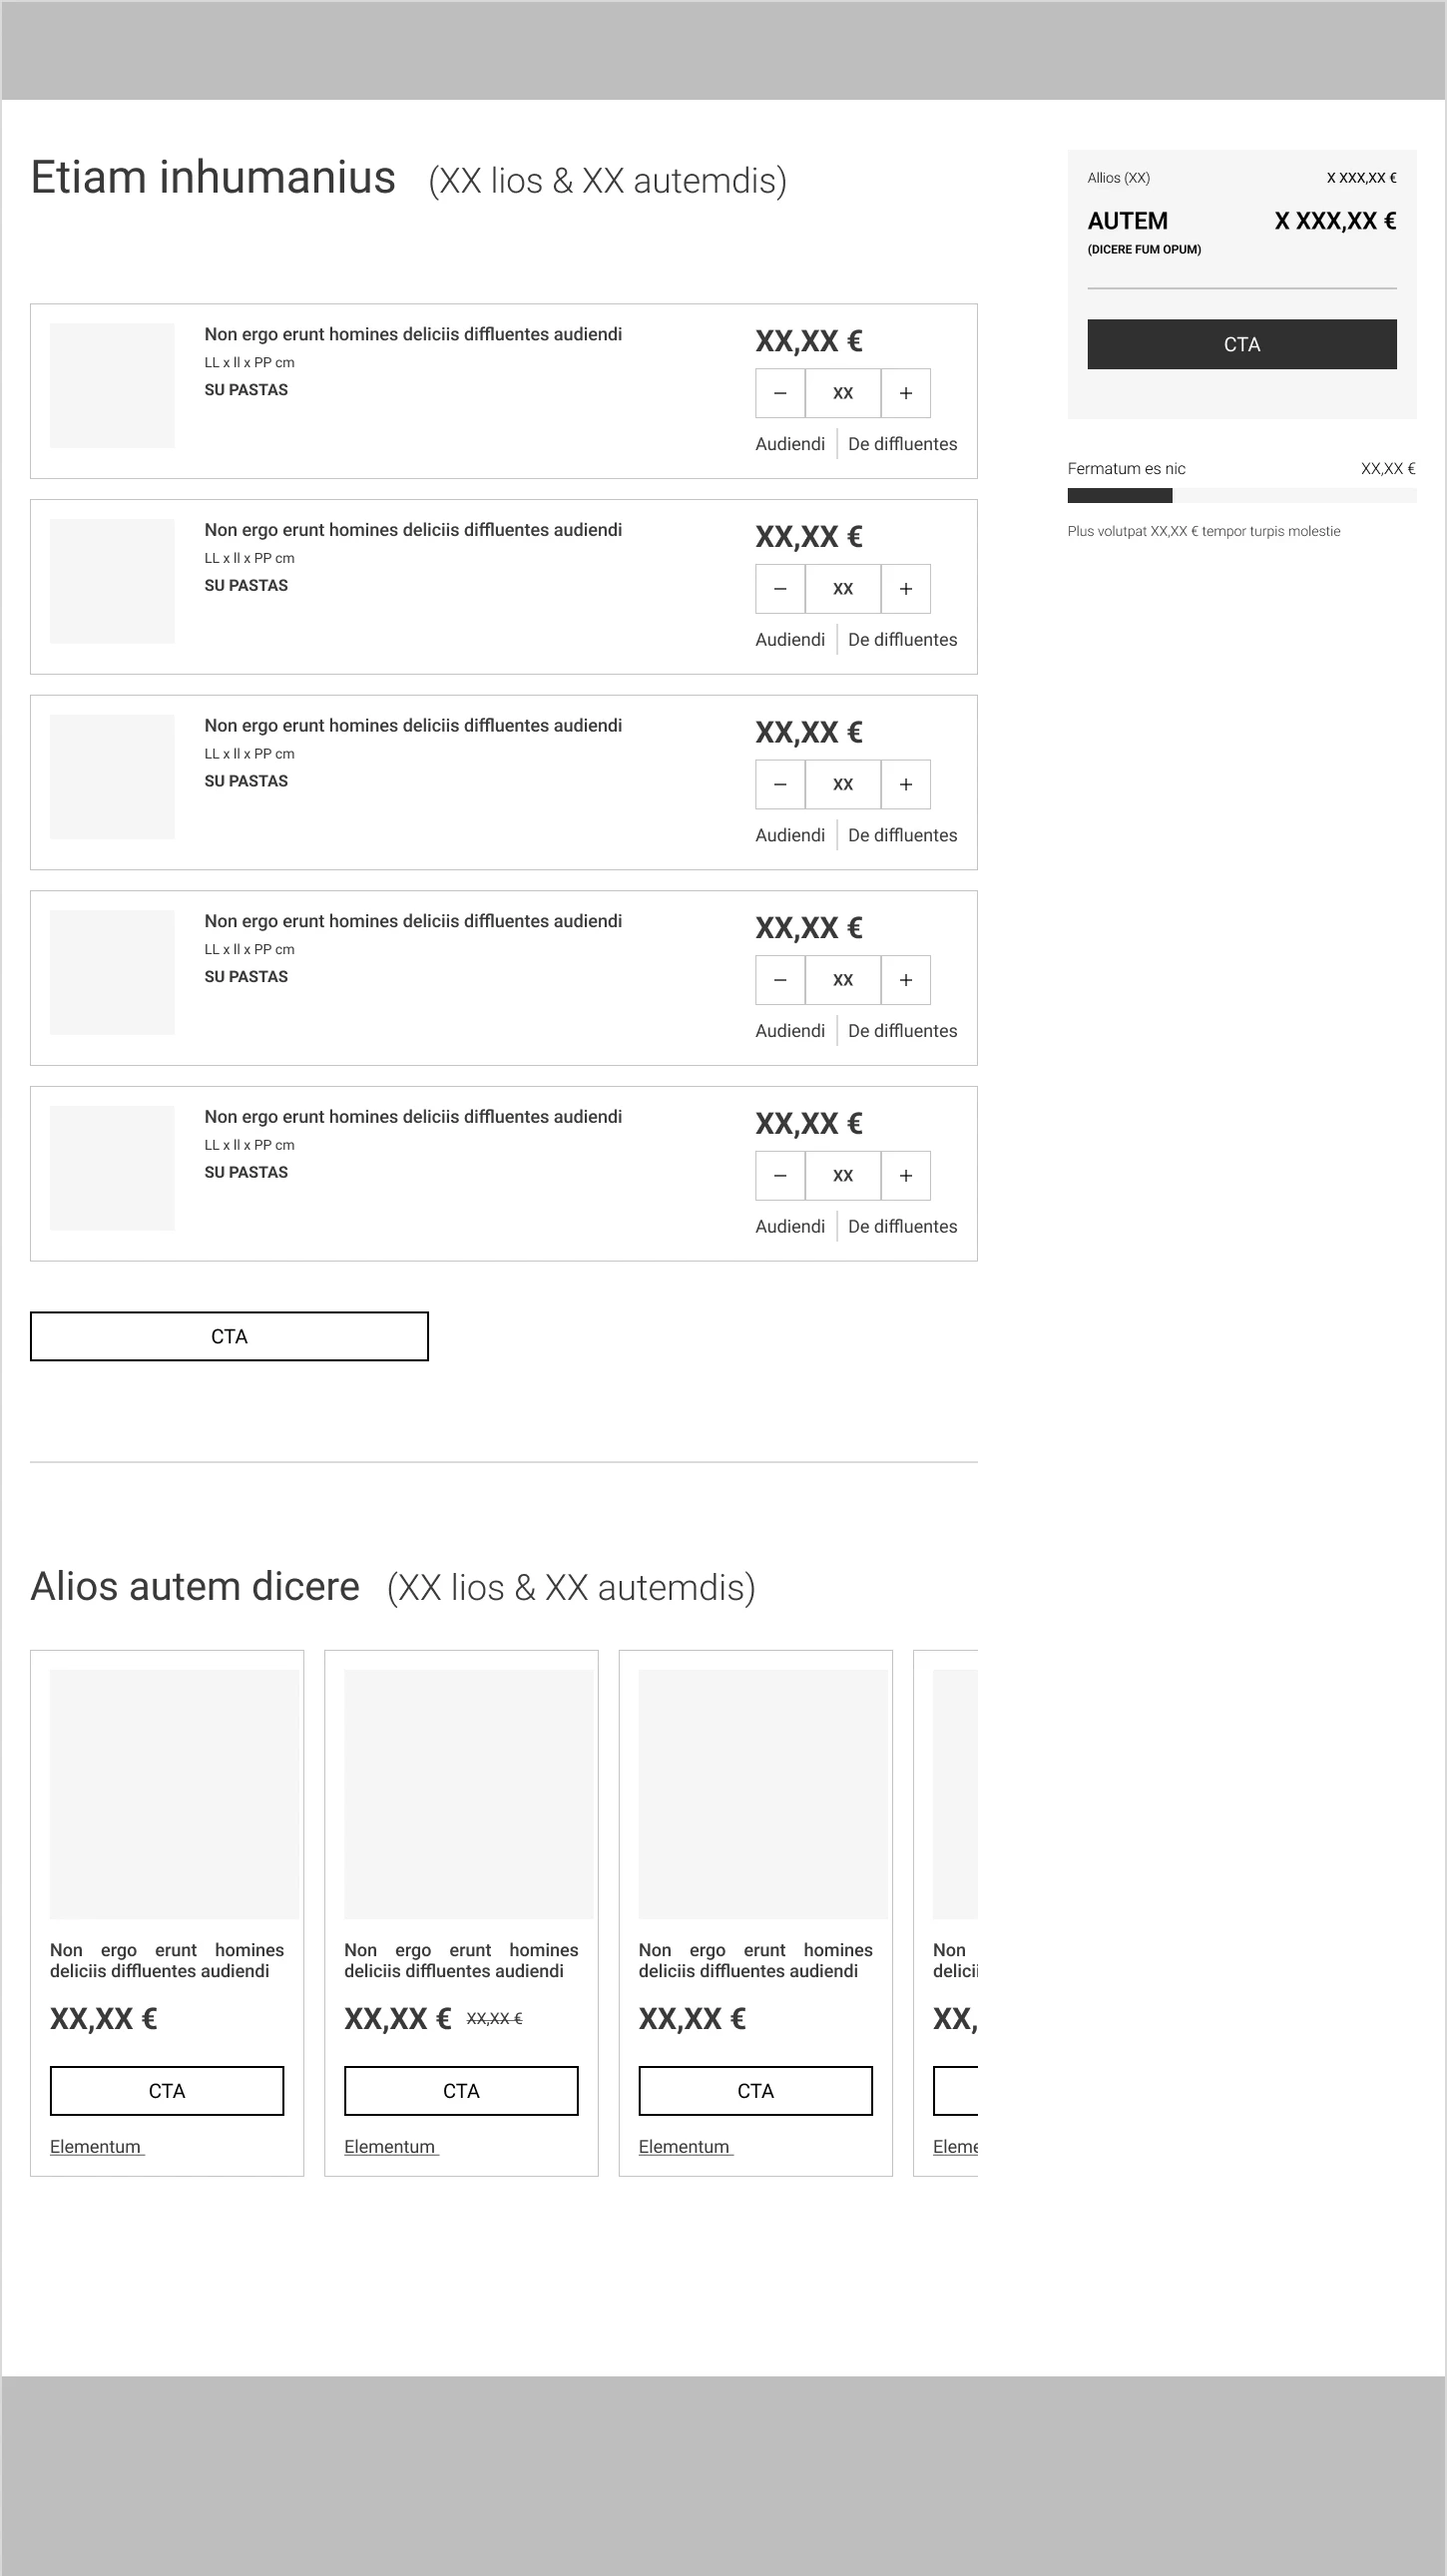
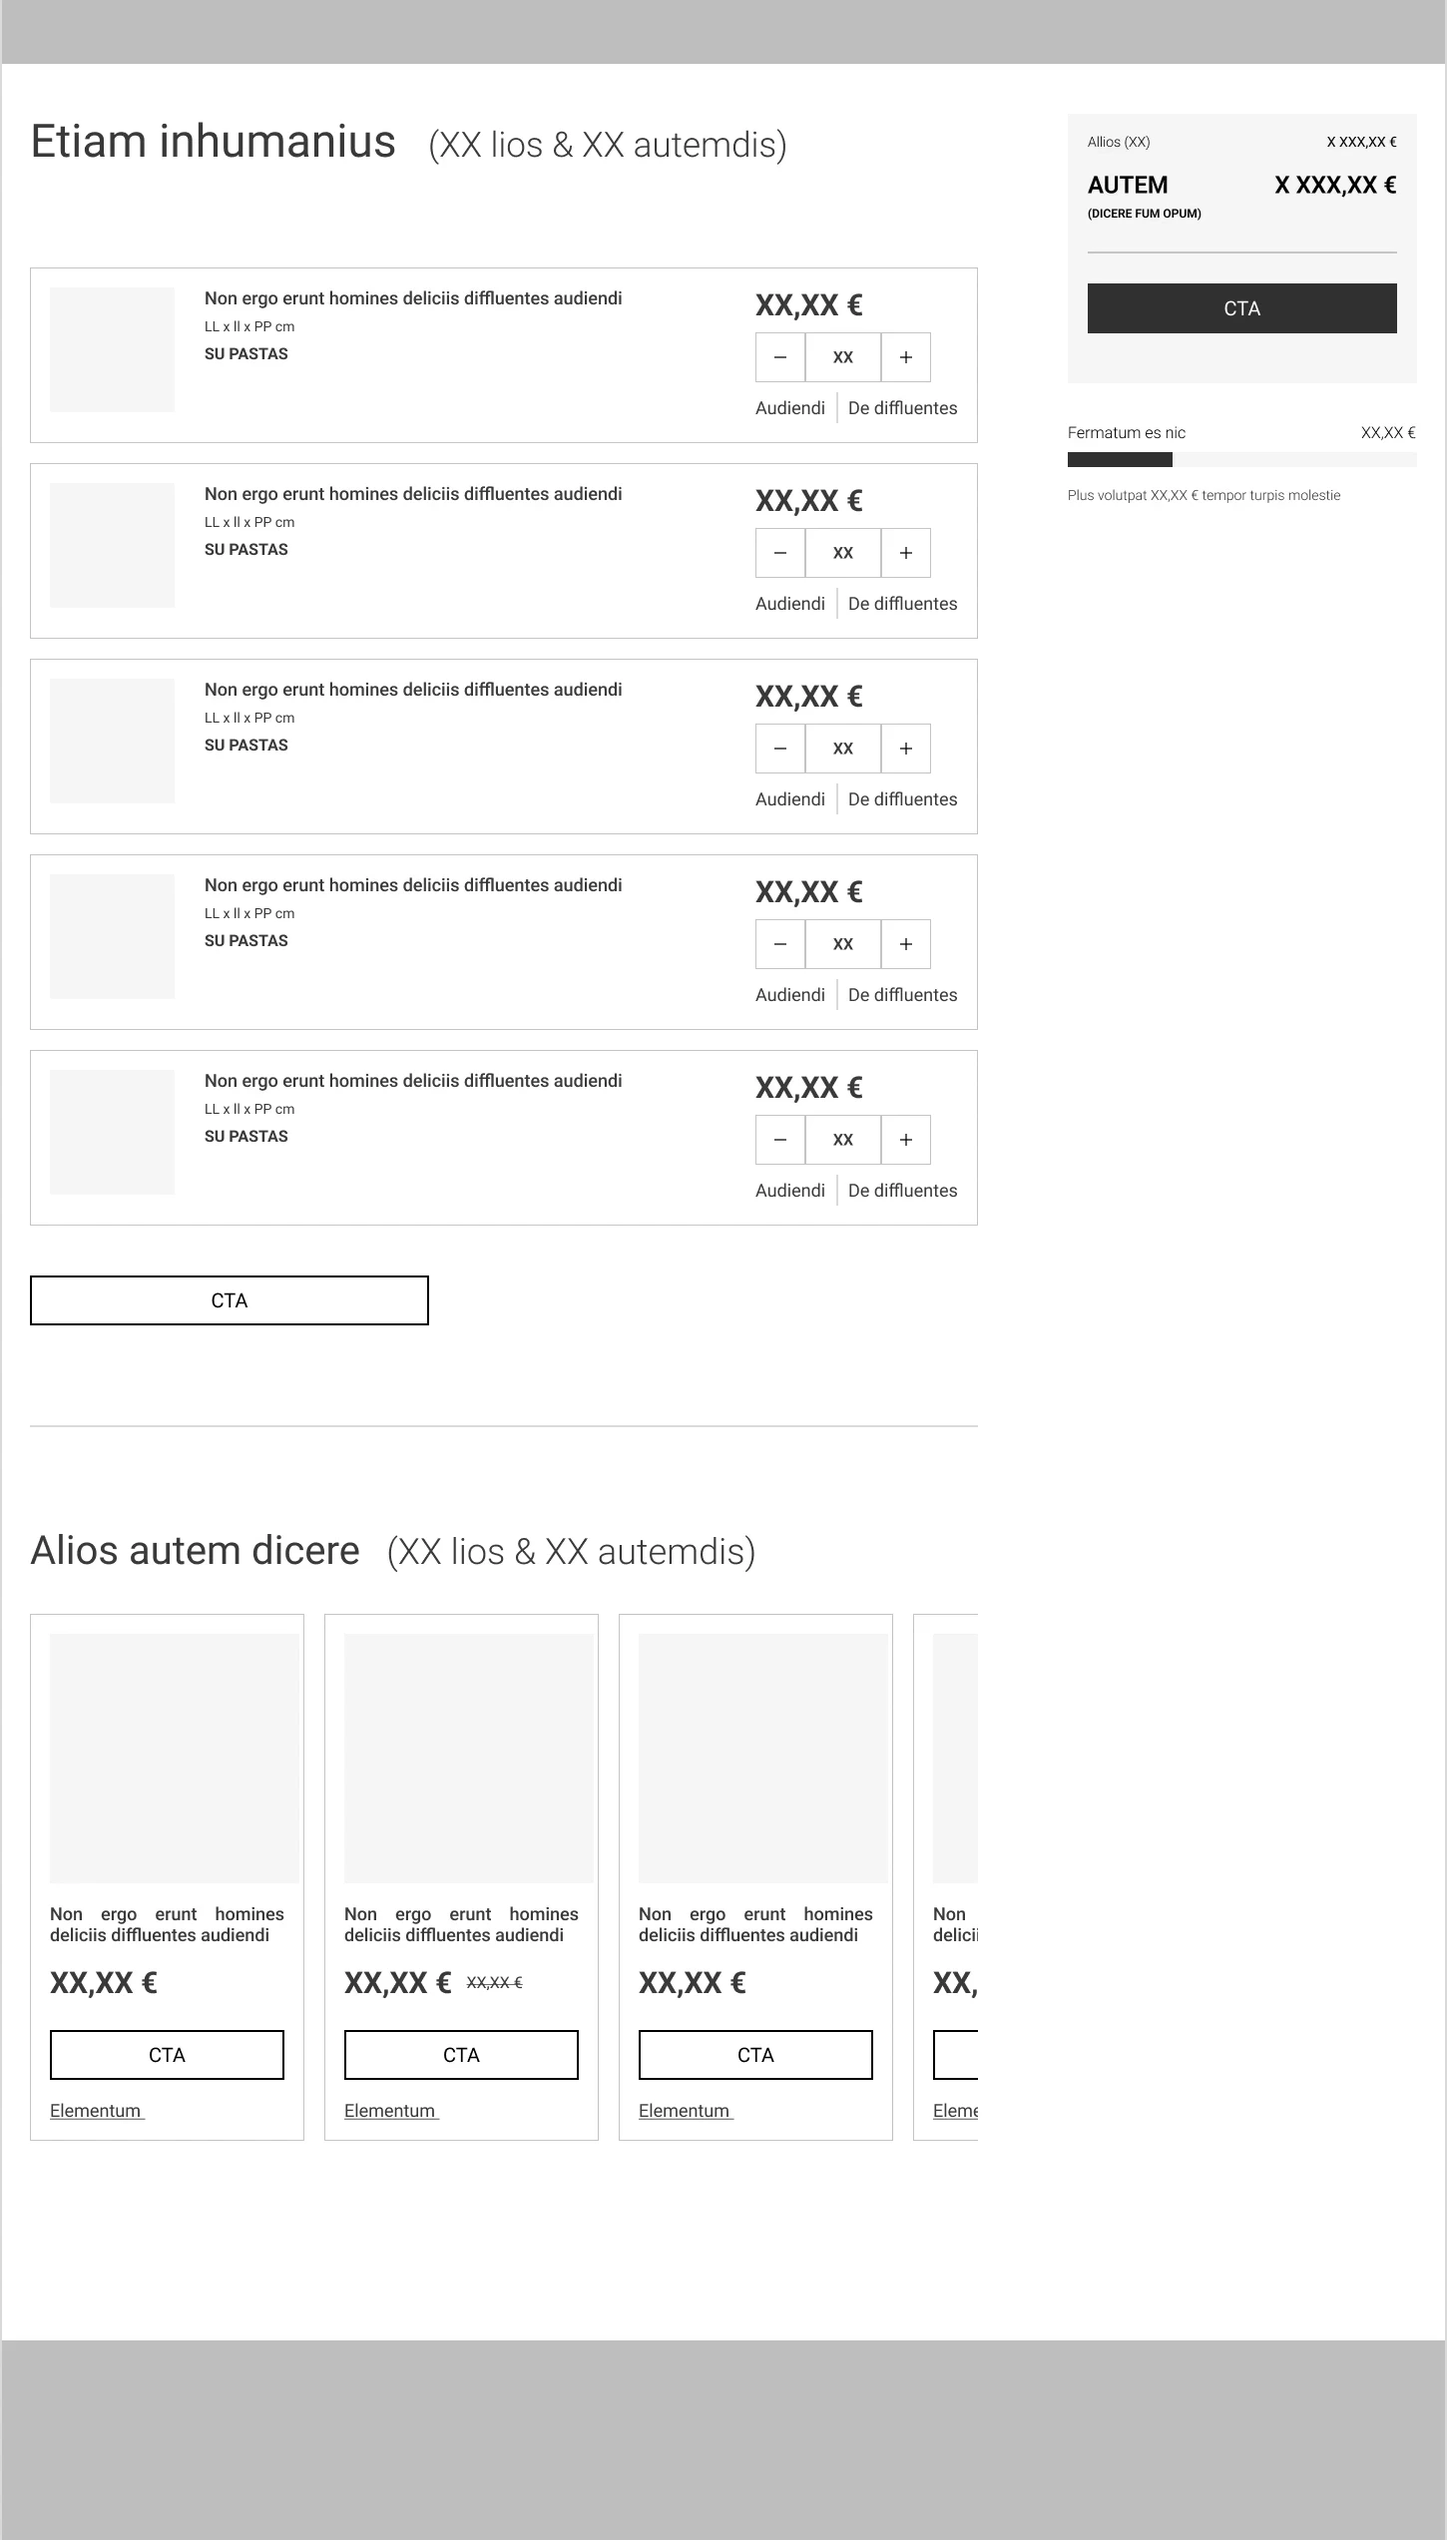
E-commerce : header des wireframes desktop raccourci
Claude-Session: https://claude.ai/code/session_01THwdntjNiSuDEHoKbgxniL

diff --git a/projets/refonte-site-e-commerce-play-in/index.html b/projets/refonte-site-e-commerce-play-in/index.html
@@ -164,15 +164,15 @@
         <div class="st-wfs">
           <figure class="st-wf st-wf--full">
             <figcaption><span class="st-wf__num">01</span><strong>Accueil</strong>Mises en avant, univers et sélections de produits</figcaption>
-            <div class="st-wf__pair"><div class="st-wf__col"><span class="st-wf__label">Desktop</span><div class="st-wf__desk st-scroll" tabindex="0" role="region" aria-label="Wireframe desktop : Accueil, défilable"><img src="../../assets/img/play-in-ecommerce/wf/home-d.webp" alt="Wireframe desktop : Accueil" width="1450" height="6185" loading="lazy"></div></div><div class="st-wf__col"><span class="st-wf__label">Mobile</span><div class="st-wf__mob st-scroll" tabindex="0" role="region" aria-label="Wireframe mobile : Accueil, défilable"><img src="../../assets/img/play-in-ecommerce/wf/home-m.webp" alt="Wireframe mobile : Accueil" width="700" height="1686" loading="lazy"></div></div></div>
+            <div class="st-wf__pair"><div class="st-wf__col"><span class="st-wf__label">Desktop</span><div class="st-wf__desk st-scroll" tabindex="0" role="region" aria-label="Wireframe desktop : Accueil, défilable"><img src="../../assets/img/play-in-ecommerce/wf/home-d.webp" alt="Wireframe desktop : Accueil" width="1450" height="6149" loading="lazy"></div></div><div class="st-wf__col"><span class="st-wf__label">Mobile</span><div class="st-wf__mob st-scroll" tabindex="0" role="region" aria-label="Wireframe mobile : Accueil, défilable"><img src="../../assets/img/play-in-ecommerce/wf/home-m.webp" alt="Wireframe mobile : Accueil" width="700" height="1686" loading="lazy"></div></div></div>
           </figure>
           <figure class="st-wf st-wf--full">
             <figcaption><span class="st-wf__num">02</span><strong>Page produit</strong>Prix, quantité et ajout au panier dès le premier écran</figcaption>
-            <div class="st-wf__pair"><div class="st-wf__col"><span class="st-wf__label">Desktop</span><div class="st-wf__desk st-scroll" tabindex="0" role="region" aria-label="Wireframe desktop : Page produit, défilable"><img src="../../assets/img/play-in-ecommerce/wf/produit-d.webp" alt="Wireframe desktop : Page produit" width="1450" height="5113" loading="lazy"></div></div><div class="st-wf__col"><span class="st-wf__label">Mobile</span><div class="st-wf__mob st-scroll" tabindex="0" role="region" aria-label="Wireframe mobile : Page produit, défilable"><img src="../../assets/img/play-in-ecommerce/wf/produit-m.webp" alt="Wireframe mobile : Page produit" width="700" height="1686" loading="lazy"></div></div></div>
+            <div class="st-wf__pair"><div class="st-wf__col"><span class="st-wf__label">Desktop</span><div class="st-wf__desk st-scroll" tabindex="0" role="region" aria-label="Wireframe desktop : Page produit, défilable"><img src="../../assets/img/play-in-ecommerce/wf/produit-d.webp" alt="Wireframe desktop : Page produit" width="1450" height="5077" loading="lazy"></div></div><div class="st-wf__col"><span class="st-wf__label">Mobile</span><div class="st-wf__mob st-scroll" tabindex="0" role="region" aria-label="Wireframe mobile : Page produit, défilable"><img src="../../assets/img/play-in-ecommerce/wf/produit-m.webp" alt="Wireframe mobile : Page produit" width="700" height="1686" loading="lazy"></div></div></div>
           </figure>
           <figure class="st-wf st-wf--full">
             <figcaption><span class="st-wf__num">03</span><strong>Panier</strong>Articles, quantités et récapitulatif toujours visible</figcaption>
-            <div class="st-wf__pair"><div class="st-wf__col"><span class="st-wf__label">Desktop</span><div class="st-wf__desk st-scroll" tabindex="0" role="region" aria-label="Wireframe desktop : Panier, défilable"><img src="../../assets/img/play-in-ecommerce/wf/panier-d.webp" alt="Wireframe desktop : Panier" width="1450" height="2581" loading="lazy"></div></div><div class="st-wf__col"><span class="st-wf__label">Mobile</span><div class="st-wf__mob st-scroll" tabindex="0" role="region" aria-label="Wireframe mobile : Panier, défilable"><img src="../../assets/img/play-in-ecommerce/wf/panier-m.webp" alt="Wireframe mobile : Panier" width="700" height="1686" loading="lazy"></div></div></div>
+            <div class="st-wf__pair"><div class="st-wf__col"><span class="st-wf__label">Desktop</span><div class="st-wf__desk st-scroll" tabindex="0" role="region" aria-label="Wireframe desktop : Panier, défilable"><img src="../../assets/img/play-in-ecommerce/wf/panier-d.webp" alt="Wireframe desktop : Panier" width="1450" height="2545" loading="lazy"></div></div><div class="st-wf__col"><span class="st-wf__label">Mobile</span><div class="st-wf__mob st-scroll" tabindex="0" role="region" aria-label="Wireframe mobile : Panier, défilable"><img src="../../assets/img/play-in-ecommerce/wf/panier-m.webp" alt="Wireframe mobile : Panier" width="700" height="1686" loading="lazy"></div></div></div>
           </figure>
         </div>
         <p class="st-note">Faites défiler les versions desktop pour voir la page en entier.</p>
